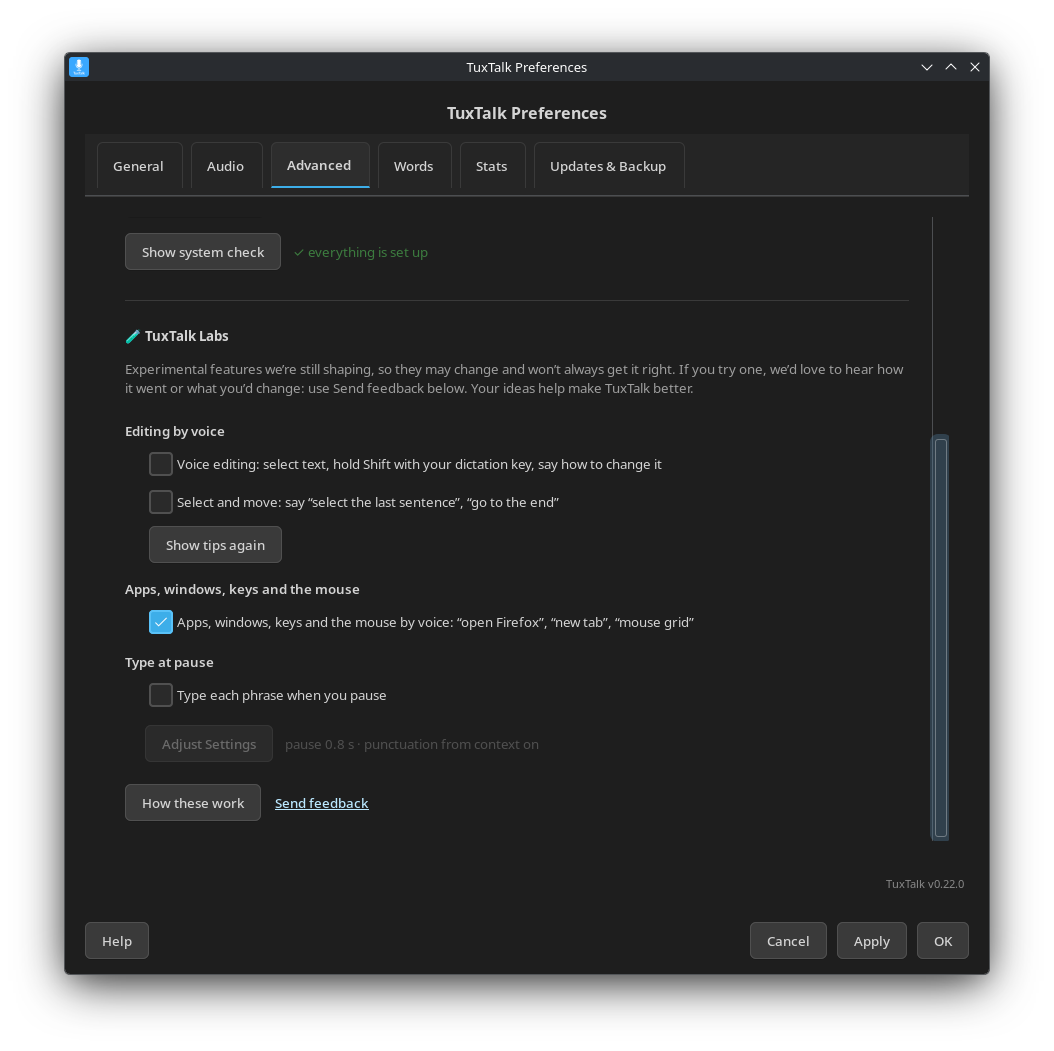
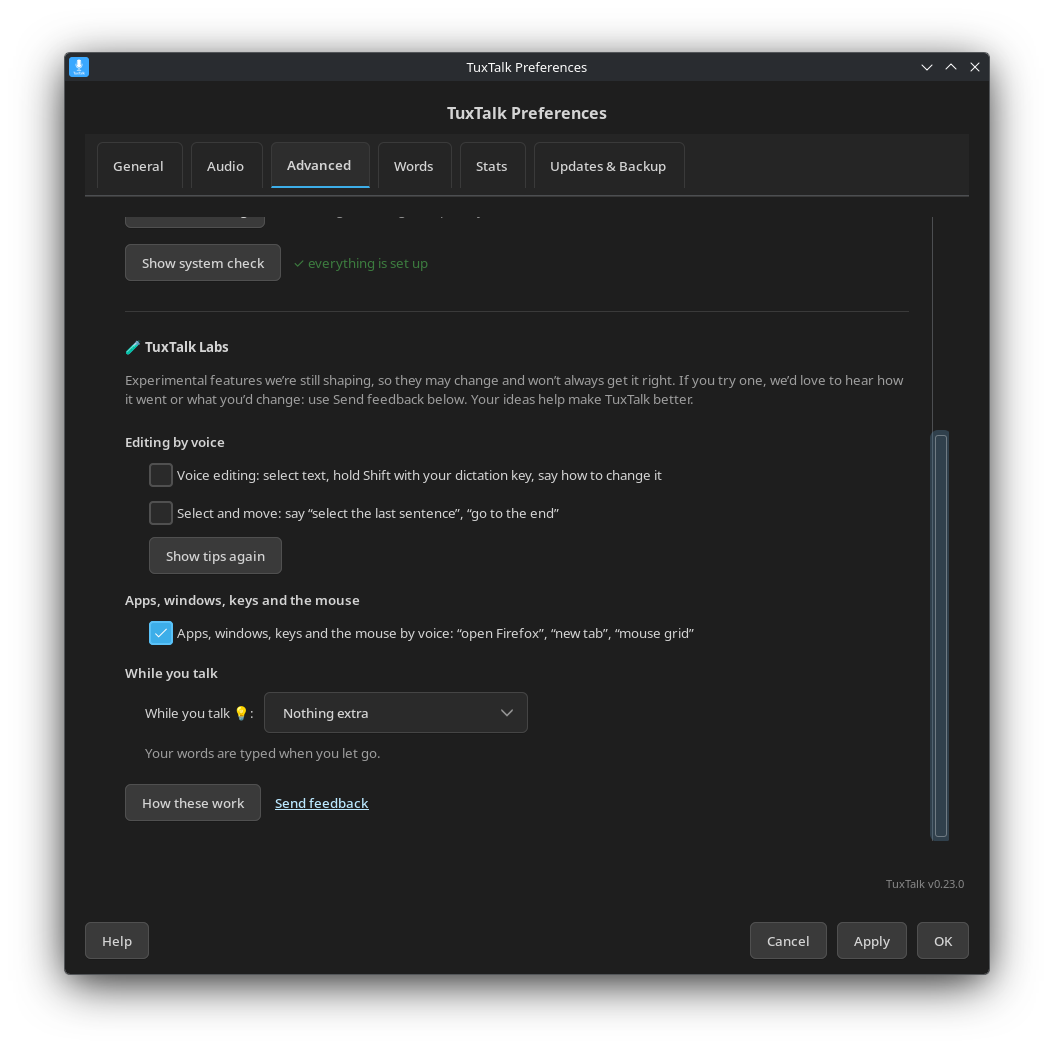
README: the Labs screenshot shows the While you talk choice

diff --git a/README.md b/README.md
@@ -150,7 +150,7 @@ You can copy the text or save it as a text file, or as subtitles for the video. 
 <td width="50%"><img src="screenshots/transcribe-file.png" alt="Transcribe a File: shop-meeting.mp3 turned into three paragraphs of text with times, and buttons to copy it or save it as text or subtitles"></td>
 </tr>
 <tr>
-<td width="50%"><img src="screenshots/prefs-labs.png" alt="Preferences, Advanced: TuxTalk Labs with voice editing, select and move, apps, windows, keys and the mouse by voice, and Type at pause"></td>
+<td width="50%"><img src="screenshots/prefs-labs.png" alt="Preferences, Advanced: TuxTalk Labs with voice editing, select and move, apps, windows, keys and the mouse by voice, and the While you talk choice"></td>
 <td>
 
 ### Try what's coming next
